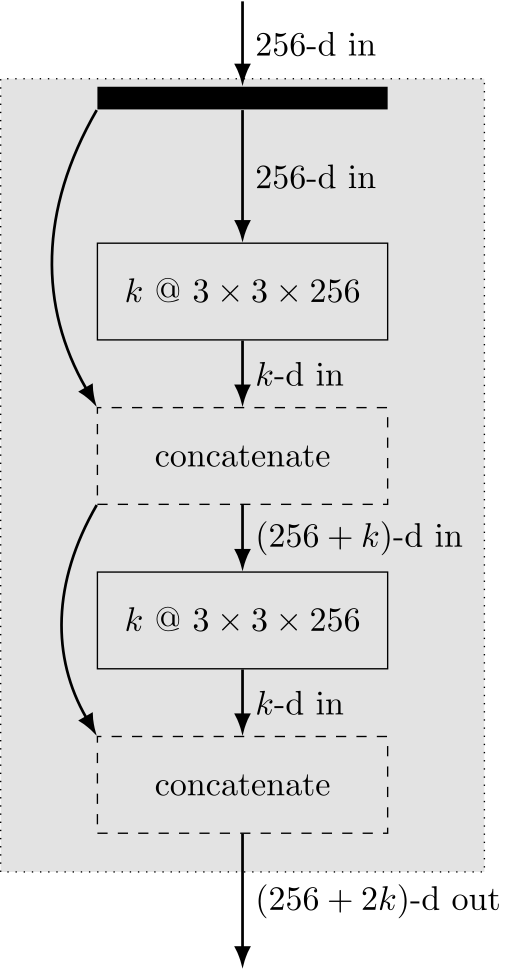
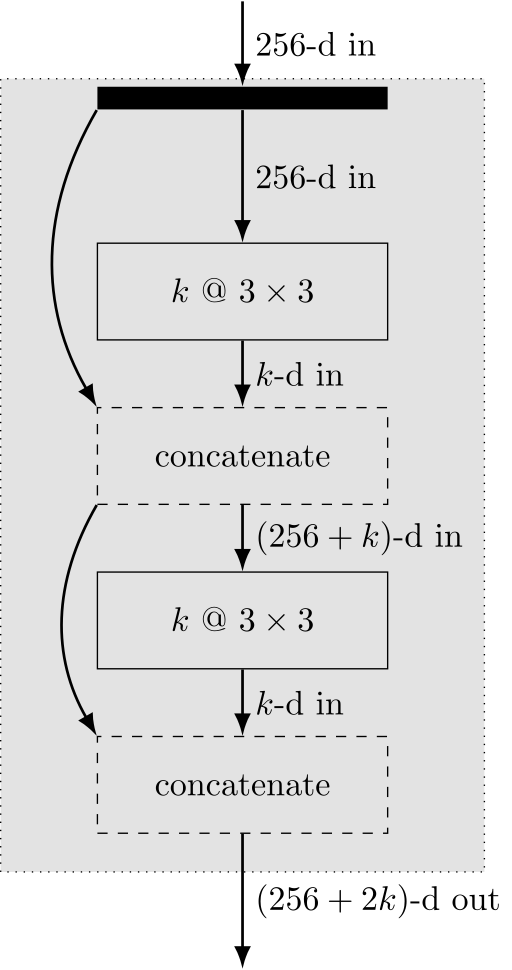
Fix mistake

diff --git a/tikz/dense-block/dense-block.tex b/tikz/dense-block/dense-block.tex
@@ -16,9 +16,9 @@
     \path[arrow] (0, 2) edge node[right, midway] {$256$-d in} (input.north);
 
     % first path
-    \node (conv1) at (0,-1.0) [conv-layer] {$k$ @ $3 \times 3 \times 256$};
+    \node (conv1) at (0,-1.0) [conv-layer] {$k$ @ $3 \times 3$};
     \node (conc1) at (0,-2.7) [conv-layer, dashed] {concatenate};
-    \node (conv2) at (0,-4.4) [conv-layer] {$k$ @ $3 \times 3 \times 256$};
+    \node (conv2) at (0,-4.4) [conv-layer] {$k$ @ $3 \times 3$};
     \node (conc2) at (0,-6.1) [conv-layer, dashed] {concatenate};
 
     \path[arrow] (input.south) edge node[right, midway] {$256$-d in} (conv1.north);
